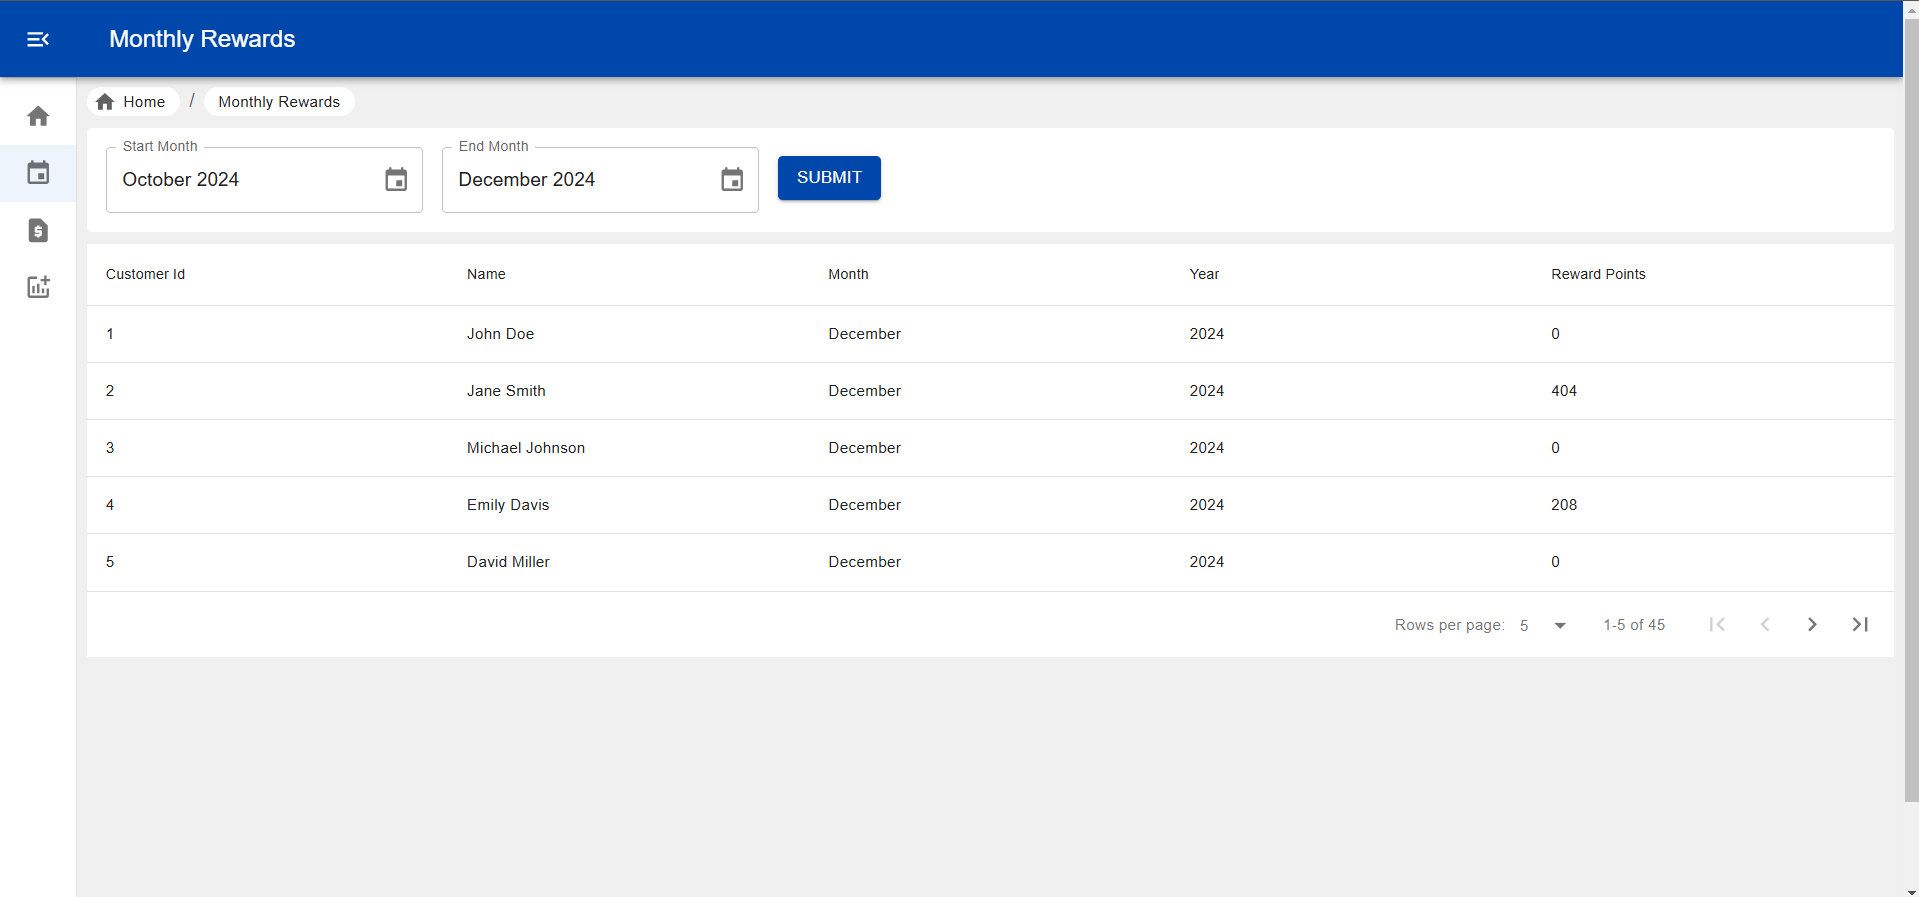
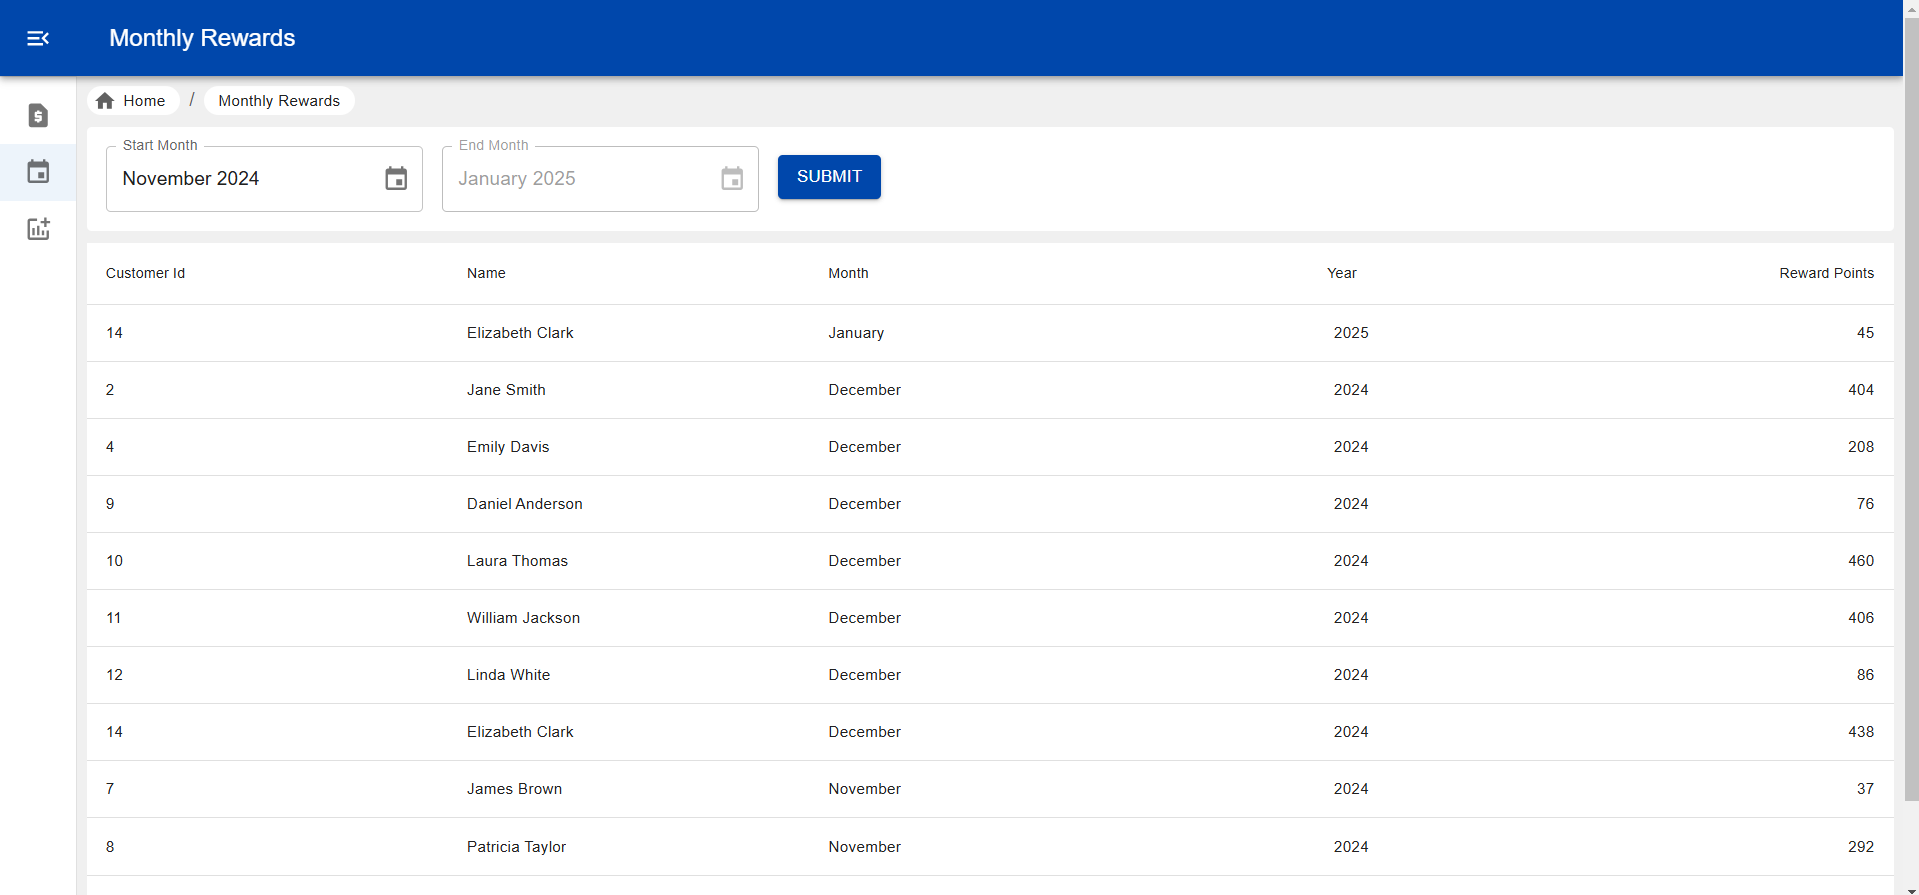
updates
1. optimize logic
2. fix test cases
3. fix readme
4. change image in readme

diff --git a/src/utils/BusinessLogicService.js b/src/utils/BusinessLogicService.js
@@ -18,7 +18,6 @@ const businessLogicService = {
 
     return points;
   },
-
   // get Total Rewards business logic
   getTotalRewards(customers, transactions) {
     try {
@@ -78,114 +77,6 @@ const businessLogicService = {
       );
       throw new Error("Network response was not ok in getTotalTransactions");
     }
-  },
-  // get monthly rewars logic
-  getMonthlyRewards(totalCustomer, transactions, startMonth, endMonth) {
-    const data = totalCustomer.map((customer) => {
-      const months = this.getMonthsInRange(startMonth, endMonth).reduce(
-        (acc, month) => ({ ...acc, [month]: 0 }),
-        {}
-      );
-
-      const customerTransactions = transactions.filter(
-        (transaction) => transaction.customerId == customer.id
-      );
-
-      return {
-        ...customer,
-        monthlyRewards: this.accumulateRewardsByMonth(
-          months,
-          customerTransactions,
-          customer
-        ),
-      };
-    });
-
-    // Flatten the data manually using reduce and add uniquekey
-    if (data) {
-      const newArr = data.reduce((acc, customer) => {
-        const customerRewards = customer.monthlyRewards.map(
-          ({ month, rewardPoints }) => {
-            const [year, monthNum] = month.split("-");
-            return {
-              id: customer.id,
-              uniqueKey: `${customer.id}${monthNum}${year}`,
-              customer_name: customer.customer_name,
-              year,
-              monthNum,
-              rewardPoints,
-            };
-          }
-        );
-        return acc.concat(customerRewards);
-      }, []);
-
-      // Remove 0 Reward Points
-      const sanitizeArr = newArr.filter((item) => {
-        if (item.rewardPoints > 0) return item;
-      });
-
-      // Sort Data by year and month
-      const sortedData = sanitizeArr.sort((a, b) => {
-        // compare year
-        if (b.year !== a.year) {
-          return b.year - a.year;
-        }
-        // compare months
-        return b.monthNum - a.monthNum;
-      });
-
-      return sortedData;
-    }
-  },
-
-  getMonthsInRange(startDate, endDate) {
-    const start = dayjs(startDate * 1000);
-    const end = dayjs(endDate * 1000);
-
-    const months = [];
-
-    let current = start.startOf("month");
-    while (current.isBefore(end) || current.isSame(end, "month")) {
-      months.push(current.format("YYYY-MM"));
-      current = current.add(1, "month");
-    }
-
-    return months;
-  },
-
-  // calculate total rewards point by providing month list and transactions list and return result in array of objects
-  accumulateRewardsByMonth(rewardsByMonth, transactions) {
-    console.log("rewardsByMonth", rewardsByMonth);
-    const monthlyRewardObj = transactions.reduce((acc, transaction) => {
-      const purchaseDate = new Date(transaction.purchase_date * 1000); // Convert Unix timestamp to milliseconds
-      const purchaseMonth = `${purchaseDate.getUTCFullYear()}-${String(
-        purchaseDate.getUTCMonth() + 1
-      ).padStart(2, "0")}`;
-
-      let points = 0;
-      let transactionAmount = Math.floor(transaction.product_price);
-
-      if (transactionAmount > 100) {
-        points += 2 * (transactionAmount - 100); // Points for amounts over 100
-        transactionAmount = 100;
-      }
-
-      if (transactionAmount > 50) {
-        points += transactionAmount - 50; // Points for amounts between 51 and 100
-      }
-
-      if (acc[purchaseMonth] !== undefined) {
-        acc[purchaseMonth] += points;
-      }
-
-      return acc;
-    }, rewardsByMonth);
-
-    return Object.entries(monthlyRewardObj).map(([month, rewardPoints]) => ({
-      month,
-      rewardPoints,
-    }));
   },
   // get monthly rewards logic
   getMonthlyRewardsV2(totalCustomer, transactions, startMonth, endMonth) {
@@ -248,14 +139,12 @@ const businessLogicService = {
       const newArr = data.reduce((acc, customer) => {
         const customerRewards = customer.monthlyRewards.map(
           ({ month, rewardPoints }) => {
-            // split month and year for sorting
-            const [year, monthNum] = month.split("-");
             return {
               id: customer.id,
-              uniqueKey: `${customer.id}${monthNum}${year}`,
+              uniqueKey: `${customer.id}${month}`,
               customer_name: customer.customer_name,
-              year,
-              monthNum,
+              startMonthUnix: dayjs(month, "YYYY-MM").startOf("month").unix(),
+              month,
               rewardPoints,
             };
           }
@@ -270,12 +159,7 @@ const businessLogicService = {
 
       // Sort Data by year and month
       const sortedData = sanitizeArr.sort((a, b) => {
-        // compare year
-        if (b.year !== a.year) {
-          return b.year - a.year;
-        }
-        // compare months
-        return b.monthNum - a.monthNum;
+        return b.startMonthUnix - a.startMonthUnix;
       });
 
       return sortedData;

diff --git a/src/pages/monthlyRewards/MonthlyRewards.test.js b/src/pages/monthlyRewards/MonthlyRewards.test.js
@@ -73,7 +73,7 @@ describe("Monthly Rewards Component", () => {
       },
     ]);
 
-    BusinessLogicService.getMonthlyRewards.mockResolvedValue([
+    BusinessLogicService.getMonthlyRewardsV2.mockResolvedValue([
       {
         id: 1,
         customer_name: "John Doe",
@@ -92,7 +92,7 @@ describe("Monthly Rewards Component", () => {
       expect(ApiService.getTransactionsByMonth).toHaveBeenCalledTimes(1)
     );
     await waitFor(() =>
-      expect(BusinessLogicService.getMonthlyRewards).toHaveBeenCalledTimes(1)
+      expect(BusinessLogicService.getMonthlyRewardsV2).toHaveBeenCalledTimes(1)
     );
   });
 
@@ -111,7 +111,7 @@ describe("Monthly Rewards Component", () => {
 
     ApiService.getCustomers.mockResolvedValue(mockCustomers);
     ApiService.getTransactionsByMonth.mockResolvedValue(mockTransactions);
-    BusinessLogicService.getMonthlyRewards.mockResolvedValue([
+    BusinessLogicService.getMonthlyRewardsV2.mockResolvedValue([
       {
         id: 1,
         customer_name: "John Doe",
@@ -127,7 +127,7 @@ describe("Monthly Rewards Component", () => {
     fireEvent.click(submitButton);
 
     await waitFor(() =>
-      expect(BusinessLogicService.getMonthlyRewards).toHaveBeenCalledWith(
+      expect(BusinessLogicService.getMonthlyRewardsV2).toHaveBeenCalledWith(
         mockCustomers,
         mockTransactions,
         expect.any(Number),
@@ -138,7 +138,7 @@ describe("Monthly Rewards Component", () => {
 
   // displays NoDataFound if no data is returned
   test("displays NoDataFound if no data is returned", async () => {
-    BusinessLogicService.getMonthlyRewards.mockResolvedValueOnce([]);
+    BusinessLogicService.getMonthlyRewardsV2.mockResolvedValueOnce([]);
 
     render(<MonthlyRewards />);
 

diff --git a/src/pages/monthlyRewards/MonthlyRewardsv2.jsx b/src/pages/monthlyRewards/MonthlyRewardsv2.jsx
@@ -26,21 +26,18 @@ const columns = [
   { name: "Name", selector: (row) => row.customer_name, wrap: true },
   {
     name: "Month",
-    selector: (row) => row.monthNum,
+    selector: (row) => row.startMonthUnix,
     wrap: true,
     sortable: true,
-    format: (row) =>
-      dayjs()
-        .month(row.monthNum - 1)
-        .format("MMMM"),
+    format: (row) => dayjs(row.startMonthUnix * 1000).format("MMMM"),
   },
   {
     name: "Year",
-    selector: (row) => row.year,
+    selector: (row) => row.startMonthUnix,
     wrap: true,
     center: "true",
     sortable: true,
-    format: (row) => dayjs(row.year).year(),
+    format: (row) => dayjs(row.startMonthUnix * 1000).year(),
   },
   {
     name: "Reward Points",
@@ -87,7 +84,7 @@ const MonthlyRewards = () => {
       const endOfMonth = dayjs(endMonth).endOf("month").unix();
       setErrorMsg("");
       setLoader(true);
-      const data = await BusinessLogicService.getMonthlyRewards(
+      const data = await BusinessLogicService.getMonthlyRewardsV2(
         customers,
         transactions,
         startOfMonth,

diff --git a/readme.md b/readme.md
@@ -86,7 +86,8 @@ reward-program/
 ├── node_modules/              # Installed npm packages
 ├── public/                    # Public assets (e.g., images, datasets)
 │   ├── assets/                # All static assets like styles or images
-│   └── dataSets/              # Dummy JSON datasets for development/testing
+│   ├── dataSets/              # Dummy JSON datasets for development/testing
+│   └── index.html             # Index page components
 ├── src/                       # Source code files for the application
 │   ├── apis/                  # API requests and utilities
 │   │   └── index.js           # List all API requests
@@ -94,7 +95,6 @@ reward-program/
 │   ├── pages/                 # Different page components of the app
 │   ├── utils/                 # Utility functions and helpers
 │   ├── app.js                 # Main app component
-│   ├── index.html             # Index page components
 │   └── index.js               # Entry point to the application
 ├── .babelrc                   # Babel configuration for transpiling code
 ├── .gitattributes             # Git configuration (to manage line endings, etc.)
@@ -222,42 +222,38 @@ To build the project for production:
 
 ## Project Screenshot
 
-1. Dashboard without sidebar open
+1. Sidebar open
 
-<img src="./public/assets/images/dashboard.png" alt="Project Screenshot" width="800" height="400" />
+<img src="./public/assets/images/sidebarOpen.png" alt="Project Screenshot" width="800" height="400" />
 
-2. Dashboard sidebar open
+2. Sidebar close
 
-<img src="./public/assets/images/dashboard-sidebar.png" alt="Project Screenshot" width="800" height="400" />
+<img src="./public/assets/images/sidebarClose.png" alt="Project Screenshot" width="800" height="400" />
 
-3. Page initial loading or after date change submit loading
-
-<img src="./public/assets/images/transaction-page-load.png" alt="Project Screenshot" width="800" height="400" />
-
-4. Monthly Reward page with data
+3. Monthly Reward page with data
 
 <img src="./public/assets/images/monthlyReward.png" alt="Project Screenshot" width="800" height="400" />
 
-5. Monthly Reward page with error message
+4. Monthly Reward page with error message
 
 <img src="./public/assets/images/monthlyReward-api error.png" alt="Project Screenshot" width="800" height="400" />
 
-6. Total Reward page with data
+5. Total Reward page with data
 
 <img src="./public/assets/images/totalReward.png" alt="Project Screenshot" width="800" height="400" />
 
-7. Total Reward page with error message
+6. Total Reward page with error message
 
 <img src="./public/assets/images/totalReward-api-error.png" alt="Project Screenshot" width="800" height="400" />
 
-8. Transaction page with data
+7. Transaction page with data
 
-<img src="./public/assets/images/transaction.png" alt="Project Screenshot" width="800" height="400" />
+<img src="./public/assets/images/transaction-page-load.png" alt="Project Screenshot" width="800" height="400" />
 
-9. Transaction page with no data message
+8. Transaction page with no data message
 
 <img src="./public/assets/images/transaction-no-data.png" alt="Project Screenshot" width="800" height="400" />
 
-10. Transaction page with error message
+9. Transaction page with error message
 
 <img src="./public/assets/images/transaction-api-error.png" alt="Project Screenshot" width="800" height="400" />
